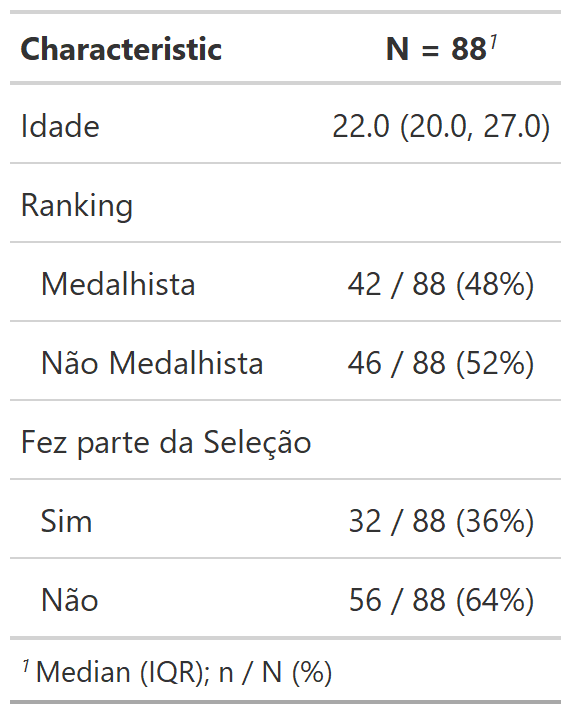
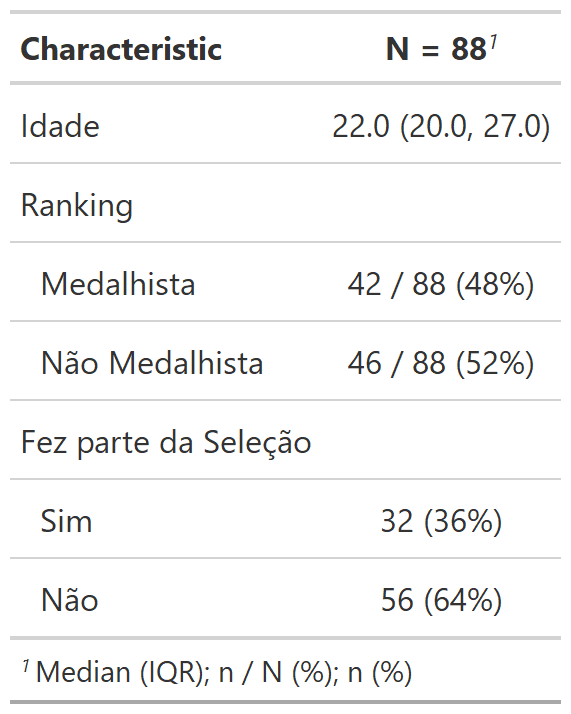
agora vai

Changed region(s): [[0.5954, 0.7087, 0.9527, 0.7703], [0.5954, 0.8011, 0.9527, 0.8627], [0.5954, 0.9244, 0.7443, 0.9552]]

diff --git a/index.html b/index.html
@@ -318,7 +318,7 @@ banco %&gt;%
 Especifica os nomes das variáveis na tabela.
 
 
-Uso: `variavel_1 ~ "Variável 1"`
+Uso: `label = variavel_1 ~ "Variável 1"`
 
 
 ```r
@@ -362,7 +362,7 @@ class: slide-code
 
 ### Exercício 1
 
-<div class="countdown" id="timer_6088d94e" style="top:0;right:0;font-size:3em;" data-warnwhen="0">
+<div class="countdown" id="timer_6088e088" style="top:0;right:0;font-size:3em;" data-warnwhen="0">
 <code class="countdown-time"><span class="countdown-digits minutes">10</span><span class="countdown-digits colon">:</span><span class="countdown-digits seconds">00</span></code>
 </div>
 
@@ -539,7 +539,7 @@ banco %&gt;%
 ```
 
 
-&lt;img src="img/fig7.png" width="30%" style="display: block; margin: auto;" /&gt;
+&lt;img src="img/fig7-2.png" width="30%" style="display: block; margin: auto;" /&gt;
 
 
 ---
@@ -579,7 +579,7 @@ class: slide-code
 
 ### Exercício 2
 
-<div class="countdown" id="timer_6088d9a6" style="top:0;right:0;" data-warnwhen="0">
+<div class="countdown" id="timer_6088e11d" style="top:0;right:0;" data-warnwhen="0">
 <code class="countdown-time"><span class="countdown-digits minutes">10</span><span class="countdown-digits colon">:</span><span class="countdown-digits seconds">00</span></code>
 </div>
 
@@ -625,7 +625,7 @@ Uso: `digits = variavel_1 ~ #`, onde # indica o número de casas decimais.
 ```r
 banco %&gt;%
   tbl_summary(label = nomes_variaveis,
-              statistic = list(all_categorical() ~ "{n} / {N} ({p})",
+              statistic = list(all_categorical() ~ "{n} / {N} ({p}%)",
                                all_continuous() ~ "{mean} ({sd})"),
               digits = list(all_categorical() ~ 1,
                             all_continuous() ~ 0))
@@ -645,7 +645,7 @@ Para especificar a quantidade de casas decimais para **cada** medida descritiva 
 ```r
 banco %&gt;%
   tbl_summary(label = nomes_variaveis,
-              statistic = list(all_categorical() ~ "{n} / {N} ({p})",
+              statistic = list(all_categorical() ~ "{n} / {N} ({p}%)",
                                all_continuous() ~ "{mean} ({sd})"),
               digits = list(all_categorical() ~ c(0, 0, 1),
                             all_continuous() ~ c(1, 1)))
@@ -680,7 +680,7 @@ class: slide-code
   - utilize o argumento `by`.
 
 
-<div class="countdown" id="timer_6088d707" style="top:0;right:0;" data-warnwhen="0">
+<div class="countdown" id="timer_6088deb3" style="top:0;right:0;" data-warnwhen="0">
 <code class="countdown-time"><span class="countdown-digits minutes">10</span><span class="countdown-digits colon">:</span><span class="countdown-digits seconds">00</span></code>
 </div>
 
@@ -694,7 +694,7 @@ class: slide-code
 
 Adiciona uma coluna de valores-p automaticamente.
 
-É utilizada após a função `tbl_summary(..., by = variavel)`.
+É utilizada após a função `tbl_summary(..., by = variavel_grupo)`.
 
 
 ```r
@@ -784,7 +784,7 @@ name: exercicio-4
 
   - lembre-se da função `all_continuous()`.
 
-<div class="countdown" id="timer_6088d9db" style="top:0;right:0;" data-warnwhen="0">
+<div class="countdown" id="timer_6088ded6" style="top:0;right:0;" data-warnwhen="0">
 <code class="countdown-time"><span class="countdown-digits minutes">10</span><span class="countdown-digits colon">:</span><span class="countdown-digits seconds">00</span></code>
 </div>
 
@@ -876,9 +876,9 @@ banco %&gt;%
 
 ---
 
-- `bold_levels()`: Coloca os **níveis** das variáveis em **negrito**.
+- `bold_levels()`: Coloca as **categorias** das variáveis em **negrito**.
 
-- `italicize_levels()`: Coloca os *níveis* das variáveis em *itálico*.
+- `italicize_levels()`: Coloca os *categorias* das variáveis em *itálico*.
 
 
 ```r
@@ -891,14 +891,14 @@ banco %&gt;%
 
 ---
 
-- `bold_p()`: Coloca os valores-p em **negrito** de acordo com algum valor (*default* é &lt; 0.05).
+- `bold_p()`: Coloca os valores-p em **negrito** de acordo com algum nível de significância (*default* é &lt; 0.05).
 
 
 ```r
 banco %&gt;%
   tbl_summary(by = variavel_grupo) %&gt;%
   add_p() %&gt;%
-  bold_p(t = 0.01)
+  bold_p(t = 0.2)
 ```
 
 &lt;img src="img/fig19.png" width="70%" style="display: block; margin: auto;" /&gt;
